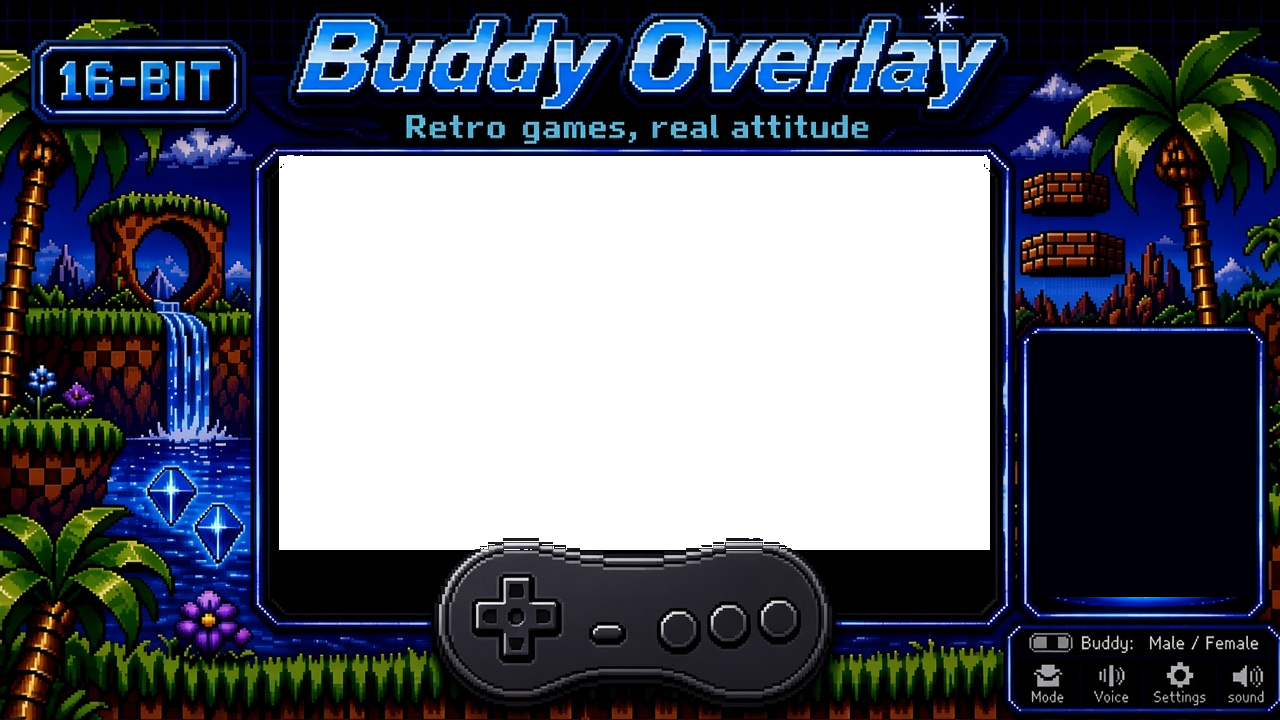
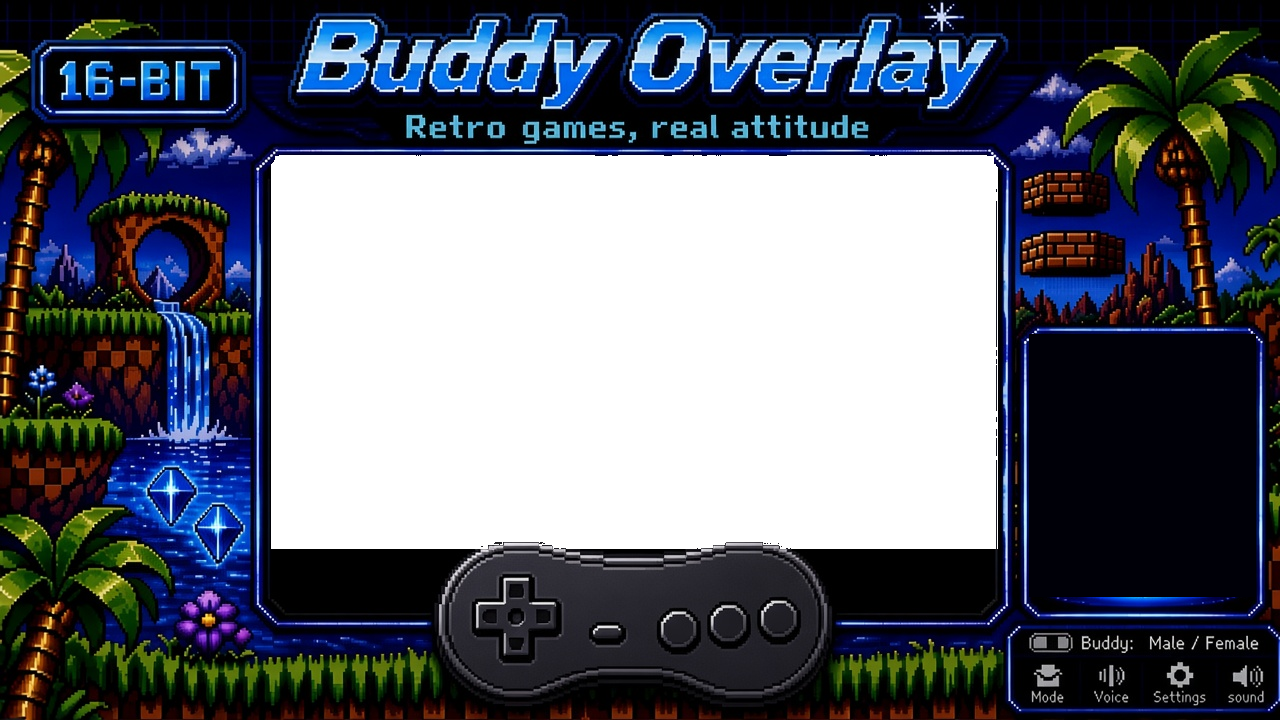
Center Buddy in the well and open the NES and SNES screens.
The head sits in the measured well for both characters, with the ring inside the plate. NES and SNES holes grow into the bezel, Genesis keeps about 10px of controller, and a few pixels of each frame's own edge sit on top of the hole.

diff --git a/backend/frame_library.py b/backend/frame_library.py
@@ -109,10 +109,16 @@ def measure_screen(image: Image.Image, threshold: int = 14) -> dict[str, int]:
     return {"x": int(x), "y": int(y), "width": int(w), "height": int(bottom - y + 1)}
 
 
-# At 720p the bezel lip is 6px (9px at 1080p). The controller overlap is 8px
-# at 720p, which is 12px at 1080p.
-BEZEL_LIP = 6
-CONTROLLER_OVERLAP = 8
+# Design pixels on the 1280x720 art. 1080p is 1.5x these numbers.
+# The overhang is the frame's own bezel, drawn back on top of the hole.
+BEZEL_OVERHANG = 4
+# How far the hole grows past the measured black window, per frame.
+# NES and SNES were still the small original opening. Genesis was already wide.
+SIDE_GROW = {"genesis": 14, "nes": 28, "snes": 34}
+TOP_GROW = {"genesis": 4, "nes": 8, "snes": 4}
+# Controller pixels kept over the game. 7px at 720p is about 10px at 1080p.
+# Genesis was covering the game with most of the pad; NES and SNES were already thin.
+CONTROLLER_OVERLAP = {"genesis": 7, "nes": 8, "snes": 8}
 
 
 def _well_pixel(rgb: np.ndarray) -> np.ndarray:
@@ -207,16 +213,51 @@ def controller_top(image: Image.Image, screen: dict[str, int]) -> int:
     return found if found is not None else y + h - 1
 
 
-def enlarge_screen(image: Image.Image, raw: dict[str, int] | None = None) -> dict[str, int]:
-    """Grow the game window under the bezel, and keep only a smidge of controller overlap."""
+def enlarge_screen(image: Image.Image, frame_id: str, raw: dict[str, int] | None = None) -> dict[str, int]:
+    """Grow the game window into the bezel. The controller only nicks the bottom.
+
+    The right edge stops short of Buddy's well. The top stops short of the title.
+    """
     raw = raw or measure_screen(image)
     width, height = image.size
-    top = controller_top(image, raw)
-    x = max(0, raw["x"] - BEZEL_LIP)
-    y = max(0, raw["y"] - BEZEL_LIP)
-    right = min(width, raw["x"] + raw["width"] + BEZEL_LIP)
-    bottom = min(height, top + CONTROLLER_OVERLAP)
-    return {"x": x, "y": y, "width": right - x, "height": max(1, bottom - y)}
+    well = buddy_well_rect(image, frame_id)
+    control = controller_top(image, raw)
+    overlap = CONTROLLER_OVERLAP[frame_id]
+    x = max(8, raw["x"] - SIDE_GROW[frame_id])
+    y = max(8, raw["y"] - TOP_GROW[frame_id])
+    right = min(width - 8, raw["x"] + raw["width"] + SIDE_GROW[frame_id])
+    right = min(right, int(well["x"]) - 12)
+    bottom = min(height - 4, control + overlap)
+    if bottom <= y + 40:
+        bottom = y + 40
+    return {"x": int(x), "y": int(y), "width": int(right - x), "height": int(bottom - y)}
+
+
+def cut_hole(image: Image.Image, screen: dict[str, int], lip: int = BEZEL_OVERHANG,
+             bottom_keep: int = 8) -> Image.Image:
+    """Open the game hole, then put a few pixels of this frame's bezel back on top.
+
+    The lip is the art that was already on that edge, not a new shape.
+    """
+    original = np.array(image.convert("RGBA"))
+    output = original.copy()
+    x, y, w, h = int(screen["x"]), int(screen["y"]), int(screen["width"]), int(screen["height"])
+    output[y:y + h, x:x + w, 3] = 0
+    if lip <= 0 or w <= lip * 2 or h <= lip * 2:
+        return Image.fromarray(output, "RGBA")
+    source = original[y:y + h, x:x + w]
+    colored = source[:, :, :3].max(axis=2) > 30
+    ring = np.zeros((h, w), dtype=bool)
+    ring[:lip, :] = True
+    band = max(lip, int(bottom_keep))
+    ring[-band:, :] = True
+    ring[:, :lip] = True
+    ring[:, -lip:] = True
+    keep = ring & colored
+    region = output[y:y + h, x:x + w]
+    region[keep] = source[keep]
+    output[y:y + h, x:x + w] = region
+    return Image.fromarray(output, "RGBA")
 
 
 def scale_rect(rect: dict[str, int], target: tuple[int, int]) -> dict[str, int]:
@@ -231,10 +272,9 @@ def scale_rect(rect: dict[str, int], target: tuple[int, int]) -> dict[str, int]:
 
 
 def paste_head(image: Image.Image, head: Image.Image, box: dict[str, int]) -> Image.Image:
-    """Composite a transparent head into the inner well. The bezel stays untouched.
+    """Center a head in the well. The ring stays fully inside, with room above the cap.
 
-    The pedestal ring sits on the bottom of the well, the same place it occupies
-    in the approved frame art. Centering the sprite left that ring on the neck.
+    The same padding is used for both characters, on every frame.
     """
     canvas = image.convert("RGBA")
     x, y, w, h = int(box["x"]), int(box["y"]), int(box["width"]), int(box["height"])
@@ -243,39 +283,48 @@ def paste_head(image: Image.Image, head: Image.Image, box: dict[str, int]) -> Im
     # Drop the baked portrait. This rect is the inner well, so the bezel stays.
     canvas.paste(Image.new("RGBA", (w, h), (0, 0, 0, 255)), (x, y))
     sprite = head.convert("RGBA")
-    trimmed = sprite.crop(sprite.getbbox()) if sprite.getbbox() else sprite
-    margin = max(1, h // 48)
-    trimmed.thumbnail((max(1, w - margin * 2), max(1, h - margin * 2)), Image.Resampling.LANCZOS)
+    box_px = sprite.getbbox()
+    trimmed = sprite.crop(box_px) if box_px else sprite
+    side = max(6, w // 12)
+    top = max(8, h // 9)
+    bottom = max(8, h // 11)
+    trimmed.thumbnail((max(1, w - side * 2), max(1, h - top - bottom)), Image.Resampling.LANCZOS)
     layer = Image.new("RGBA", (w, h), (0, 0, 0, 0))
     ox = (w - trimmed.width) // 2
-    oy = max(0, h - trimmed.height - margin)
+    oy = h - bottom - trimmed.height
+    if oy < top:
+        oy = top
     layer.alpha_composite(trimmed, (ox, oy))
     canvas.alpha_composite(layer, (x, y))
     return canvas
 
 
-def punch_screen(image: Image.Image, screen: dict[str, int], threshold: int = 18) -> Image.Image:
-    """Cut the game window to alpha. Non-black pixels, including the controller, stay."""
-    rgba = np.array(image.convert("RGBA"))
-    x, y, w, h = screen["x"], screen["y"], screen["width"], screen["height"]
-    region = rgba[y:y + h, x:x + w]
-    black = region[:, :, :3].max(axis=2) <= threshold
-    region[:, :, 3] = np.where(black, 0, 255)
-    rgba[y:y + h, x:x + w] = region
-    return Image.fromarray(rgba, "RGBA")
+def punch_screen(image: Image.Image, screen: dict[str, int], threshold: int = 18,
+                 frame_id: str | None = None) -> Image.Image:
+    """Cut the game window, then lay the frame's own bezel back over the edge.
+
+    `threshold` is kept so older callers stay valid. The hole itself is cleared
+    fully. A few pixels of this frame's bezel are painted back on every side,
+    and the controller overlap stays along the bottom.
+    """
+    del threshold
+    keep = CONTROLLER_OVERLAP.get(frame_id, 8) if frame_id else 8
+    return cut_hole(image, screen, BEZEL_OVERHANG, keep)
 
 
 def build_metadata() -> dict:
     frames = {}
     for frame_id, filename in FRAME_FILES.items():
         path = FRAME_DIR / filename
-        screen = enlarge_screen(Image.open(path))
+        source = Image.open(path)
+        screen = enlarge_screen(source, frame_id)
         placement = PLACEMENTS[frame_id]
         viewports = {name: scale_rect(screen, size) for name, size in OUTPUTS.items()}
         frames[frame_id] = {
             "file": filename,
             "systems": [alias for alias, target in SYSTEM_ALIASES.items() if target == frame_id],
             "screen": screen,
+            "well": buddy_well_rect(source, frame_id),
             "buddy": placement["buddy"],
             "menu": placement["menu"],
             "viewports": viewports,
@@ -354,7 +403,7 @@ def write_outputs() -> list[Path]:
         source = clear_painted_head(Image.open(FRAME_DIR / record["file"]), frame_id)
         png_name = Path(record["file"]).stem + ".png"
         png_path = OVERLAY_DIR / png_name
-        punch_screen(source, record["screen"]).save(png_path)
+        punch_screen(source, record["screen"], frame_id=frame_id).save(png_path)
         cfg_path = OVERLAY_DIR / f"{frame_id}.cfg"
         cfg_path.write_text(retroarch_overlay_cfg(frame_id), encoding="utf-8")
         written.extend((png_path, cfg_path))
@@ -404,7 +453,7 @@ def write_runtime_retroarch_cfg(frame_id: str, size: tuple[int, int], directory:
     if not png.exists():
         source = clear_painted_head(Image.open(FRAME_DIR / record["file"]), frame_id)
         OVERLAY_DIR.mkdir(parents=True, exist_ok=True)
-        punch_screen(source, record["screen"]).save(png)
+        punch_screen(source, record["screen"], frame_id=frame_id).save(png)
     overlay_path = directory / f"{frame_id}-overlay.cfg"
     overlay_path.write_text(
         "\n".join([

diff --git a/tests/test_frames.py b/tests/test_frames.py
@@ -59,6 +59,63 @@ def test_sheets_split_and_turns_keep_gb_readable():
     assert male.right_turns[-1][0] == 1.0
 
 
+def test_head_is_centered_in_the_well():
+    """The live head's box is centered in the well and does not leave it."""
+    import numpy as np
+    from backend.frame_library import frame_record
+    from backend.overlay_view import compose_overlay
+
+    def bounds(image, well):
+        crop = np.asarray(image.convert("RGB").crop(
+            (well["x"], well["y"], well["x"] + well["width"], well["y"] + well["height"])))
+        red = crop[:, :, 0].astype(int)
+        blue = crop[:, :, 2].astype(int)
+        green = crop[:, :, 1].astype(int)
+        mask = (blue > 70) & (blue > red + 25) & (green > 15)
+        ys, xs = np.where(mask)
+        return xs, ys
+
+    for frame_id in ("genesis", "nes", "snes"):
+        well = frame_record(frame_id)["well"]
+        for character in ("male", "female"):
+            for size, limit in (((1280, 720), 8), ((1920, 1080), 12)):
+                image = compose_overlay(
+                    frame_id, size, expression="idle", character=character, resting="left",
+                )
+                scale_x = size[0] / 1280
+                scale_y = size[1] / 720
+                box = {
+                    "x": int(round(well["x"] * scale_x)),
+                    "y": int(round(well["y"] * scale_y)),
+                    "width": int(round(well["width"] * scale_x)),
+                    "height": int(round(well["height"] * scale_y)),
+                }
+                xs, ys = bounds(image, box)
+                assert len(xs) > 20, (frame_id, character, size)
+                center = (int(xs.min()) + int(xs.max())) / 2
+                assert abs(center - box["width"] / 2) <= limit, (frame_id, character, size, center)
+                assert int(xs.min()) >= 2 and int(xs.max()) <= box["width"] - 3
+                assert int(ys.min()) >= 6, (frame_id, character, size, int(ys.min()))
+                assert int(ys.max()) <= box["height"] - 4
+
+
+def test_bezel_overhangs_the_hole():
+    import numpy as np
+    from backend.frame_library import BEZEL_OVERHANG, FRAME_DIR, FRAME_FILES, frame_record, punch_screen
+    for frame_id, filename in FRAME_FILES.items():
+        image = Image.open(FRAME_DIR / filename)
+        screen = frame_record(frame_id)["screen"]
+        punched = np.array(punch_screen(image, screen, frame_id=frame_id))
+        x, y, w, h = screen["x"], screen["y"], screen["width"], screen["height"]
+        lip = BEZEL_OVERHANG
+        top = punched[y:y + lip, x + lip:x + w - lip, 3]
+        left = punched[y + lip:y + h - lip, x:x + lip, 3]
+        assert int((top > 200).sum()) > 10, frame_id
+        assert int((left > 200).sum()) > 10, frame_id
+        center = punched[y + h // 2, x + w // 2, 3]
+        assert int(center) == 0
+
+
 def test_approved_composite_keeps_the_bezel():
     import numpy as np
     from backend.frame_library import FRAME_DIR, FRAME_FILES, PLACEMENTS, paste_head

diff --git a/backend/overlay_view.py b/backend/overlay_view.py
@@ -22,7 +22,7 @@ def _frame_art(frame_id: str) -> Image.Image:
     source = Image.open(Path(__file__).resolve().parents[1] / "assets" / "frames" / record["file"])
     # The baked portrait is gone before the live sprite is drawn.
     source = clear_painted_head(source, frame_id)
-    return punch_screen(source, record["screen"])
+    return punch_screen(source, record["screen"], frame_id=frame_id)
 
 
 def _fill_hole(image: Image.Image, color: tuple[int, int, int, int] = (6, 8, 14, 255)) -> Image.Image:
@@ -61,12 +61,26 @@ def _caption(image: Image.Image, box: dict[str, int], text: str, band: int) -> N
     draw.text((x, y), text, font=font, fill=(232, 244, 255, 255))
 
 
+def _well_box(frame_id: str, origin: tuple[int, int], frame_size: tuple[int, int]) -> dict[str, int]:
+    """The real inner plate, not the older hand-tuned portrait rect."""
+    record = frame_record(frame_id)
+    raw = record.get("well") or PLACEMENTS[frame_id]["buddy"]
+    sx = frame_size[0] / DESIGN["width"]
+    sy = frame_size[1] / DESIGN["height"]
+    return {
+        "x": int(round(origin[0] + raw["x"] * sx)),
+        "y": int(round(origin[1] + raw["y"] * sy)),
+        "width": max(1, int(round(raw["width"] * sx))),
+        "height": max(1, int(round(raw["height"] * sy))),
+    }
+
+
 def layout_boxes(frame_id: str, monitor: tuple[int, int], *, game_running: bool,
                  reserve_button: bool = False) -> dict:
     origin_x, origin_y, frame_w, frame_h = fit_frame(monitor)
-    buddy = _box(frame_id, "buddy", (origin_x, origin_y), (frame_w, frame_h))
+    buddy = _well_box(frame_id, (origin_x, origin_y), (frame_w, frame_h))
     menu = _box(frame_id, "menu", (origin_x, origin_y), (frame_w, frame_h))
-    fraction = 0.34 if reserve_button else 0.22
+    fraction = 0.28 if reserve_button else 0.18
     caption_h = 0 if game_running else max(18, int(buddy["height"] * fraction))
     head = {
         "x": buddy["x"],

diff --git a/tests/test_frame_library.py b/tests/test_frame_library.py
@@ -5,8 +5,8 @@ from PIL import Image
 
 from backend.frame_library import (
     ASPECT_RATIO_CUSTOM,
-    BEZEL_LIP,
     CONTROLLER_OVERLAP,
+    SIDE_GROW,
     FRAME_DIR,
     FRAME_FILES,
     SYSTEM_ALIASES,
@@ -50,20 +50,20 @@ def test_measured_screen_matches_metadata_and_keeps_the_controller():
     for frame_id, filename in FRAME_FILES.items():
         image = Image.open(FRAME_DIR / filename)
         measured = measure_screen(image)
-        grown = enlarge_screen(image, measured)
+        grown = enlarge_screen(image, frame_id, measured)
         stored = metadata["frames"][frame_id]["screen"]
         assert stored == grown
-        assert stored["x"] == max(0, measured["x"] - BEZEL_LIP)
+        assert stored["width"] >= measured["width"] + SIDE_GROW[frame_id]
         top = controller_top(image, measured)
-        assert stored["y"] + stored["height"] == min(image.size[1], top + CONTROLLER_OVERLAP)
+        assert stored["y"] + stored["height"] == min(image.size[1] - 4, top + CONTROLLER_OVERLAP[frame_id])
         assert stored["width"] > 400 and stored["height"] > 300
-        punched = punch_screen(image, stored)
+        punched = punch_screen(image, stored, frame_id=frame_id)
         center = punched.getpixel((stored["x"] + stored["width"] // 2, stored["y"] + stored["height"] // 2))
         assert center[3] == 0
         # The footer controller overlaps the window, so that band stays partly opaque.
         import numpy as np
         x, y, w, h = stored["x"], stored["y"], stored["width"], stored["height"]
-        band = np.array(punched.crop((x, y + h - CONTROLLER_OVERLAP, x + w, y + h)))
+        band = np.array(punched.crop((x, y + h - CONTROLLER_OVERLAP[frame_id], x + w, y + h)))
         opaque = band[:, :, 3] == 255
         assert int(opaque.sum()) > 20
         assert int(band[opaque][:, :3].max()) > 18
